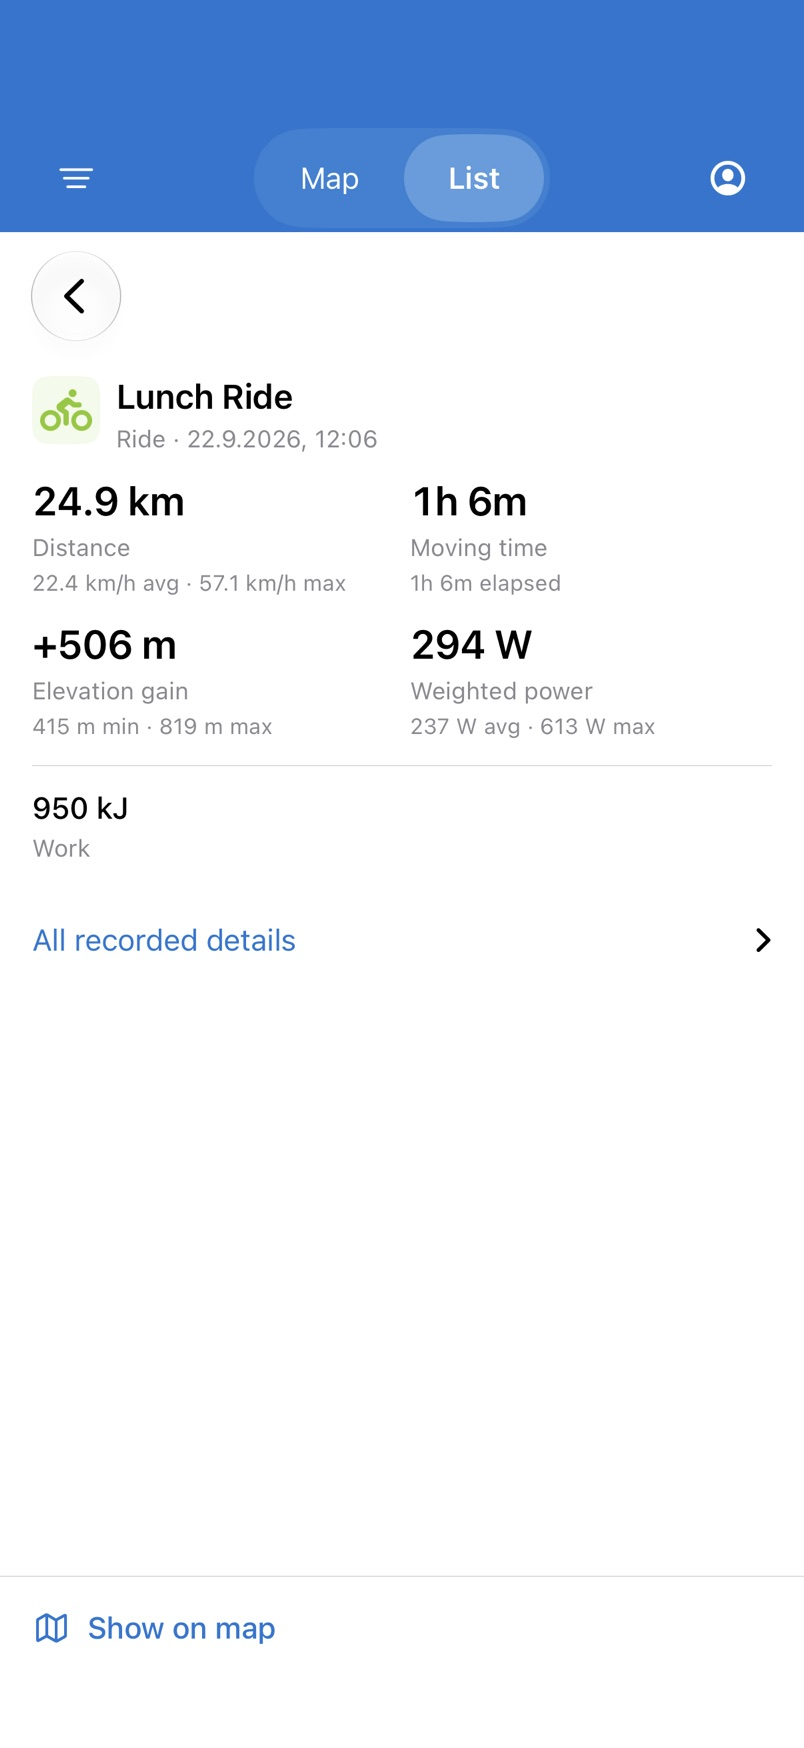
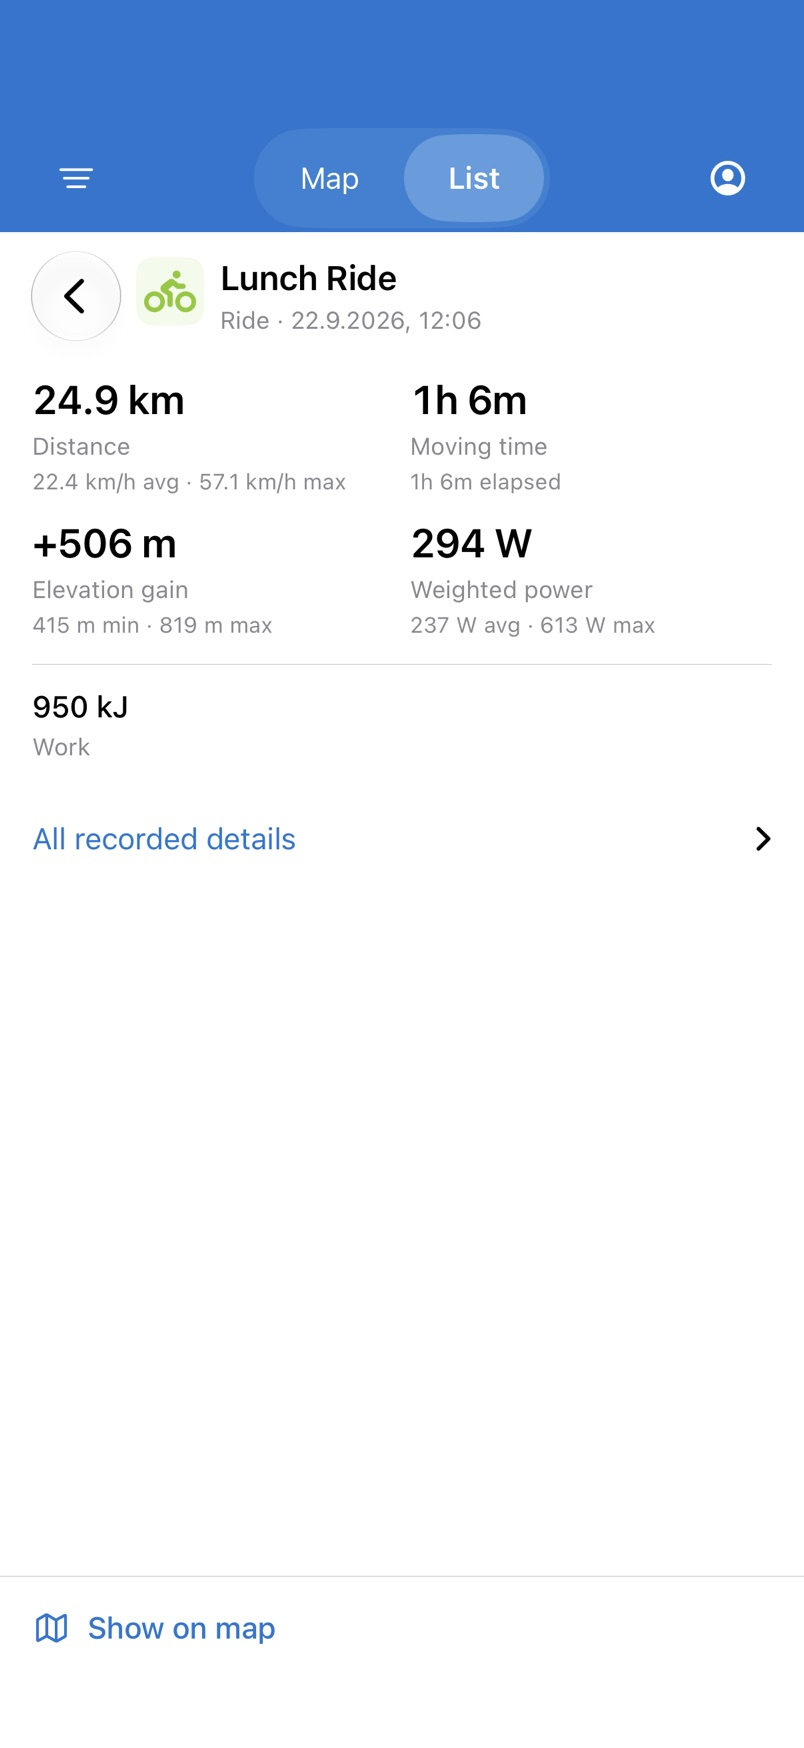
Pin activity identity beside the list detail back button

diff --git a/ios/ActivityMap/ActivityMap/List/ActivityDetailView.swift b/ios/ActivityMap/ActivityMap/List/ActivityDetailView.swift
@@ -9,7 +9,7 @@ struct ActivityDetailView: View {
 
     var body: some View {
         VStack(spacing: 0) {
-            HStack {
+            HStack(alignment: .center, spacing: AppTheme.Spacing.small) {
                 Button { dismiss() } label: {
                     Image(systemName: "chevron.left")
                         .font(.system(size: 20, weight: .medium))
@@ -20,11 +20,15 @@ struct ActivityDetailView: View {
                 .glassEffect(.regular.interactive(), in: .circle)
                 .accessibilityLabel("Back to activities")
                 .accessibilityIdentifier("list-detail-back")
-                Spacer(minLength: 0)
+                if let activity = store.activity(id: activityID) {
+                    ActivityDetailIdentity(activity: activity, titleLineLimit: 2)
+                } else {
+                    Spacer(minLength: 0)
+                }
             }
             .padding(.horizontal, 16)
             .padding(.vertical, 10)
-            ActivityDetailPanel(store: store, activityID: activityID)
+            ActivityDetailPanel(store: store, activityID: activityID, showsHeading: false)
         }
         .background(AppTheme.surface)
         // UIKit adds a late top inset when a hidden bar is shown during a
@@ -42,6 +46,7 @@ struct ActivityDetailPanel: View {
     @Bindable var store: ActivityStore
     let activityID: Int
     var headerTrailingInset: CGFloat = 0
+    var showsHeading = true
     var mapExpansion: MapActivityExpansion? = nil
     var showOnMap: ((Int) -> Void)? = nil
 
@@ -60,7 +65,8 @@ struct ActivityDetailPanel: View {
                 } else {
                     VStack(spacing: 0) {
                         ScrollView {
-                            ActivityDetailContent(activity: activity, headerTrailingInset: headerTrailingInset)
+                            ActivityDetailContent(activity: activity, headerTrailingInset: headerTrailingInset,
+                                                  showsHeading: showsHeading)
                         }
                         .accessibilityIdentifier("activity-detail-scroll")
                         .clipped()

diff --git a/ios/ActivityMap/ActivityMap/List/ActivityDetailContent.swift b/ios/ActivityMap/ActivityMap/List/ActivityDetailContent.swift
@@ -128,12 +128,14 @@ struct ActivityDetailContent<Profile: View, Photos: View>: View {
 struct ActivityDetailIdentity: View {
     let activity: Activity
     var trailingInset: CGFloat = 0
+    var titleLineLimit: Int? = nil
 
     var body: some View {
         HStack(alignment: .top, spacing: AppTheme.Spacing.small) {
             BrowseSportSymbol(category: activity.category)
             VStack(alignment: .leading, spacing: AppTheme.Spacing.tight) {
                 Text(activity.name).font(.headline)
+                    .lineLimit(titleLineLimit)
                     .fixedSize(horizontal: false, vertical: true)
                     .accessibilityAddTraits(.isHeader)
                     .accessibilityIdentifier("activity-detail-name")

diff --git a/docs/ios-list-density-review.md b/docs/ios-list-density-review.md
@@ -74,3 +74,9 @@ Device feedback showed that matching inline title modes did not fix the jump. A 
 List details now keep the system navigation bar hidden and render a fixed Back row within the sliding content. The existing native navigation stack and interactive-pop recognizer remain in use. A scoped UIKit gesture delegate permits edge-pop while the bar is hidden, guards root/in-flight transitions, and restores the previous delegate and enabled state when the detail disappears. The fixed button retains a 44pt hit target, glass appearance, an explicit accessibility label and the escape action.
 
 The trace now keeps the destination top inset at zero throughout opening. The regression samples 40 frames across the animation, checks native pop eligibility and delegate restoration, and retains the scroll/tab checks. It passed, as did the separate 4,575-row navigation and window-resize checks: three focused tests, zero failures. Results: `Test-ActivityMap-2026.10.04_09-21-37-+0200.xcresult` and `Test-ActivityMap-2026.10.04_09-22-32-+0200.xcresult` in `/tmp/activitymap-navigation-build/Logs/Test/`.
+
+### Pinned activity identity beside Back
+
+The pushed List detail combines Back, sport symbol, activity title and date in one fixed header above the scrolling metrics. It removes the duplicate heading from the scroll view, saving a row at normal text size. Long titles use up to two lines in this pinned header; the shared identity remains unrestricted in other detail hosts. Date/type text still wraps with Dynamic Type.
+
+The opening-frame, interactive-pop and scroll-retention regression passed (one test, zero failures): `Test-ActivityMap-2026.10.04_09-31-50-+0200.xcresult`. Light, dark and accessibility-text screenshots were regenerated; a temporary long-title fixture checked the two-line limit at accessibility size. The Release build was installed on the iPhone for review.
